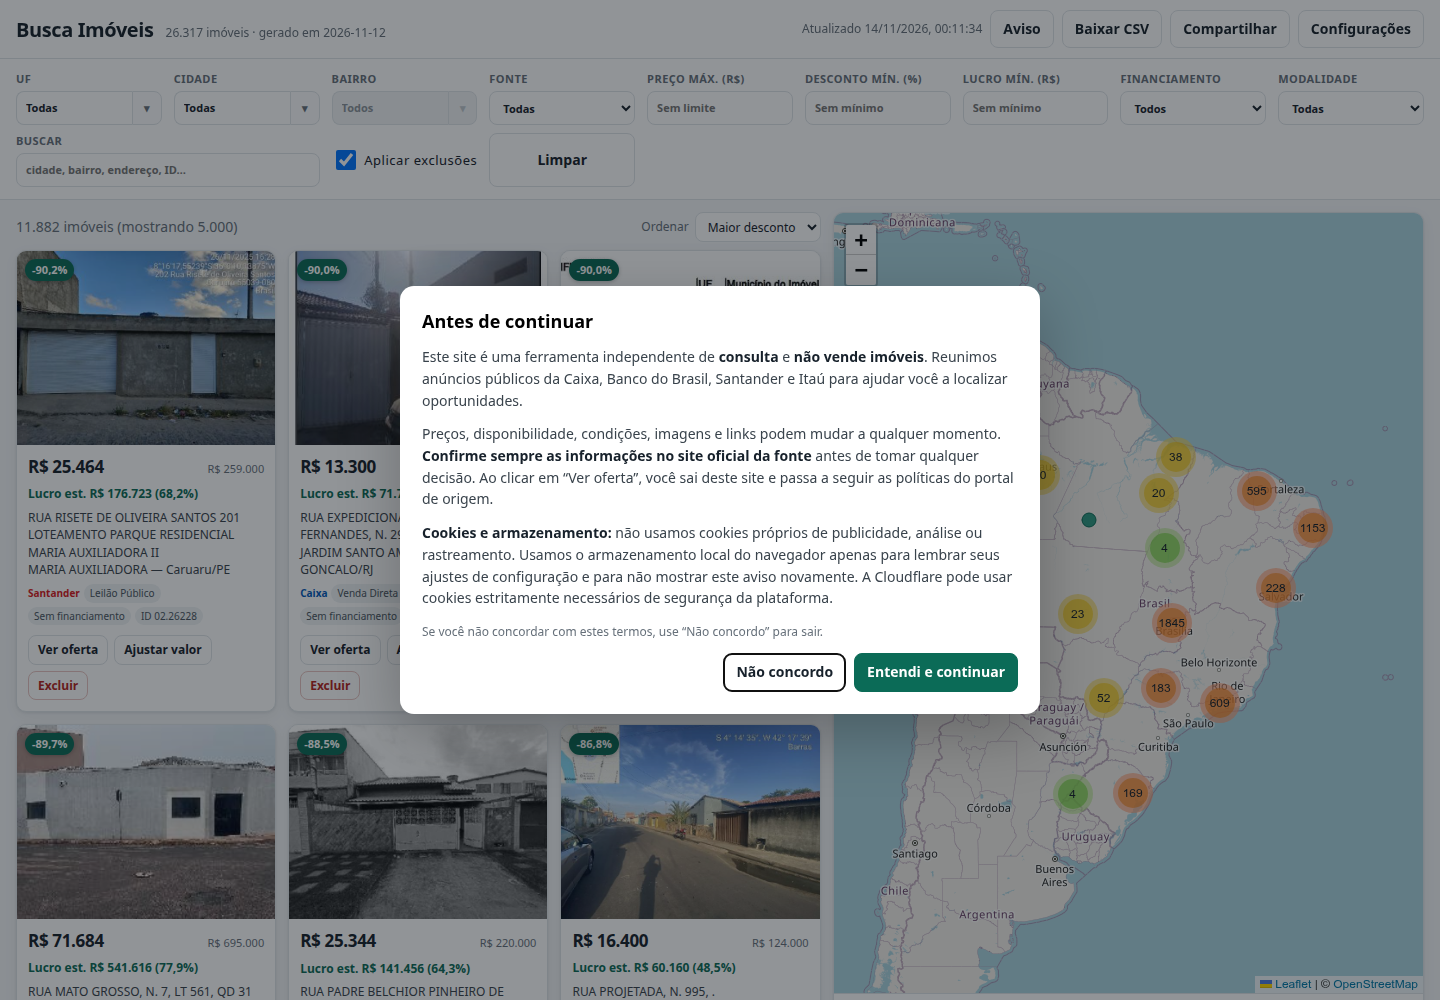
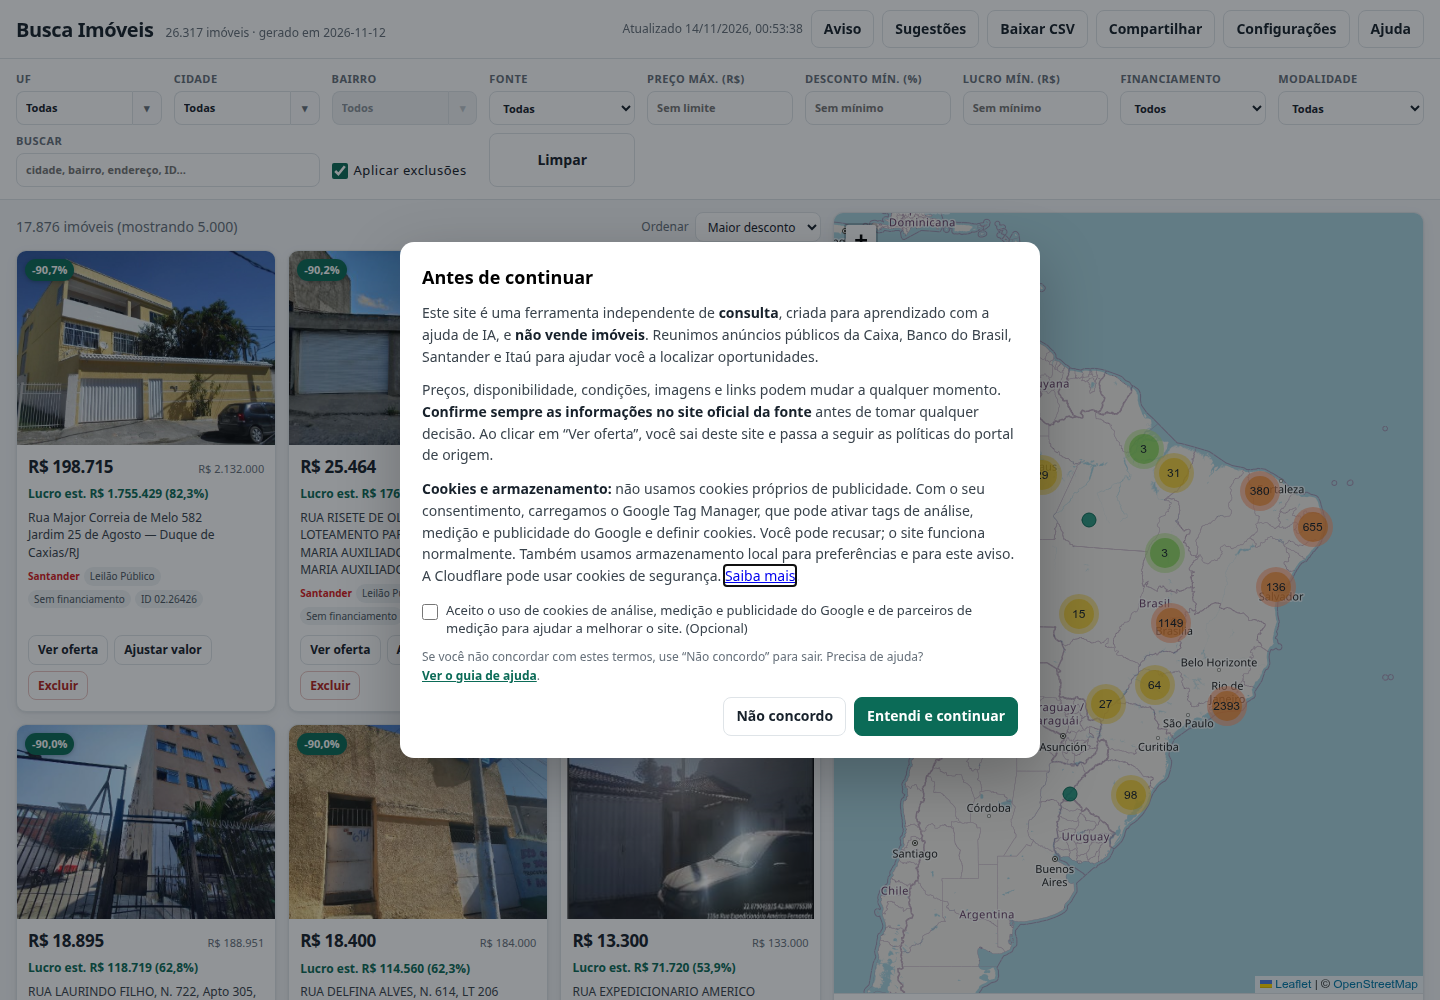
fix: corrige formatação do checkbox do aviso de cookies

diff --git a/public/static/style.css b/public/static/style.css
@@ -97,6 +97,18 @@ input, select {
   min-height: 34px;
 }
 
+input[type="checkbox"] {
+  width: 16px;
+  min-width: 16px;
+  max-width: 16px;
+  height: 16px;
+  min-height: 16px;
+  padding: 0;
+  margin: 0;
+  flex: 0 0 auto;
+  accent-color: var(--accent);
+}
+
 input:focus, select:focus, textarea:focus {
   outline: 2px solid rgba(14, 138, 112, .35);
   border-color: var(--accent-2);
@@ -309,7 +321,8 @@ dialog.help-dialog { width: min(860px, 95vw); }
 .notice-form p:last-of-type { margin-bottom: 0; }
 .notice-form strong { color: var(--ink); }
 .notice-consent { display: flex; align-items: flex-start; gap: 8px; margin: 14px 0 0; font-size: 13px; line-height: 1.45; color: #39434c; cursor: pointer; }
-.notice-consent input { margin-top: 3px; flex: 0 0 auto; }
+.notice-consent input { margin-top: 3px; flex: 0 0 16px; }
+.notice-consent span { flex: 1 1 auto; min-width: 0; }
 .notice-decline-hint { margin-top: 10px !important; font-size: 12px !important; color: var(--muted) !important; }
 .link-button { background: none; border: 0; padding: 0; color: var(--accent); font: inherit; font-weight: 600; text-decoration: underline; cursor: pointer; }
 .notice-actions { display: flex; justify-content: flex-end; gap: 8px; flex-wrap: wrap; margin-top: 12px; }
